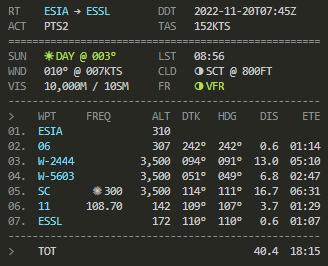
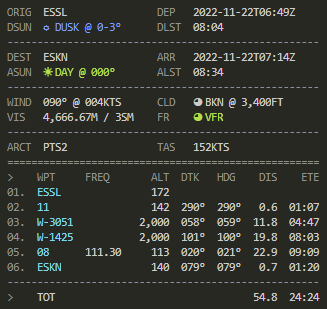
Add total time en route and distance to Mission

Changed region(s): [[0.0, 0.0, 0.9786, 0.9925], [0.8869, 0.3609, 0.9174, 0.391], [0.8869, 0.2707, 0.9174, 0.3008]]

diff --git a/dist/Export/Flightplan.js b/dist/Export/Flightplan.js
@@ -81,29 +81,44 @@ export class Flightplan {
     toString() {
         const m = this.mission;
         const lineLength = 52;
-        const sunState = new LonLatDate(m.origin_lon_lat, m.conditions.time_object).sunState;
-        let output = this.outputFourColumn([
-            'RT',
-            this.clr.lightCyan + m.origin_icao + this.clr.reset + ' → ' + this.clr.lightCyan + m.destination_icao + this.clr.reset,
-            'DDT',
+        const total_distance = m.distance;
+        const total_time_enroute = m.time_enroute;
+        const time = m.conditions.time_object;
+        const sunStateOrigin = new LonLatDate(m.origin_lon_lat, time).sunState;
+        time.setSeconds(time.getSeconds() + total_time_enroute * 3600);
+        const sunStateDestination = new LonLatDate(m.destination_lon_lat, time).sunState;
+        let output = '';
+        // Origin
+        output += this.outputFourColumn([
+            'ORIG',
+            m.origin_icao,
+            'DEP',
             m.conditions.time_object.toISOString().replace(/:\d+\.\d+/, ''),
         ]);
         output += this.outputFourColumn([
-            'ACT',
-            m.aircraft_icao,
-            'TAS',
-            this.padThree(m.cruise_speed) + 'KTS'
+            'DSUN',
+            this.outputSunState(sunStateOrigin),
+            'DLST',
+            sunStateOrigin.localSolarTime
         ]);
-        output += this.outputDashes(lineLength, '=');
+        output += this.outputDashes(lineLength);
+        // Desitination
+        output += this.outputFourColumn([
+            'DEST',
+            m.destination_icao,
+            'ARR',
+            time.toISOString().replace(/:\d+\.\d+/, ''),
+        ]);
+        output += this.outputFourColumn([
+            'ASUN',
+            this.outputSunState(sunStateDestination),
+            'ALST',
+            sunStateDestination.localSolarTime
+        ]);
         // Weather table
+        output += this.outputDashes(lineLength);
         output += this.outputFourColumn([
-            'SUN',
-            this.outputSunState(sunState),
-            'LST',
-            sunState.localSolarTime
-        ]);
-        output += this.outputFourColumn([
-            'WND',
+            'WIND',
             this.getWindColored(m.conditions),
             'CLD',
             m.conditions.cloud_cover_symbol + ' ' + m.conditions.cloud_cover_code + ' @ ' + m.conditions.cloud_base_feet.toLocaleString('en') + 'FT'
@@ -115,14 +130,16 @@ export class Flightplan {
             this.getConditionColored(m.conditions, m.origin_lon_lat)
         ]);
         output += this.outputDashes(lineLength);
+        output += this.outputFourColumn([
+            'ARCT',
+            m.aircraft_icao,
+            'TAS',
+            this.padThree(m.cruise_speed) + 'KTS'
+        ]);
+        output += this.outputDashes(lineLength, '=');
         // Waypoint table
         output += this.clr.lightGray + this.outputLine(['>  ', 'WPT   ', 'FREQ  ', '   ALT', 'DTK ', 'HDG ', ' DIS', '  ETE']) + this.clr.reset;
-        let totalDistance = 0, totalTime = 0;
         m.checkpoints.forEach((c, i) => {
-            totalDistance += c.distance;
-            if (c.time > 0) {
-                totalTime += c.time;
-            }
             let frqString = '';
             if (c.frequency) {
                 frqString = c.frequency_unit === 'M' ? this.pad(c.frequency_mhz, 6, 2) : ('✺ ' + c.frequency_khz.toFixed()).padStart(6);
@@ -136,14 +153,14 @@ export class Flightplan {
                 (c.direction >= 0) ? this.padThree(c.direction_magnetic) + "°" : ' '.repeat(4),
                 (c.heading >= 0) ? this.padThree(c.heading_magnetic) + "°" : ' '.repeat(4),
                 (c.distance >= 0) ? this.pad(c.distance, 4, 1) : ' '.repeat(4),
-                (c.time > 0) ? this.convertHoursToMinutesString(c.time) : ' '.repeat(5),
+                (c.time_enroute > 0) ? this.convertHoursToMinutesString(c.time_enroute) : ' '.repeat(5),
             ]);
         });
         output += this.outputDashes(lineLength);
         output += this.outputLine([
             this.clr.lightGray + '>  ' + this.clr.reset, 'TOT   ', '      ', '      ', '    ', '    ',
-            this.pad(totalDistance, 4, 1),
-            this.convertHoursToMinutesString(totalTime)
+            this.pad(total_distance, 4, 1),
+            this.convertHoursToMinutesString(total_time_enroute)
         ]);
         return output;
     }

diff --git a/src/Export/Flightplan.ts b/src/Export/Flightplan.ts
@@ -87,32 +87,49 @@ export class Flightplan {
   toString(): string {
     const m = this.mission;
     const lineLength = 52;
-    const sunState = new LonLatDate(m.origin_lon_lat, m.conditions.time_object).sunState;
+    const total_distance = m.distance;
+    const total_time_enroute = m.time_enroute;
+    const time = m.conditions.time_object;
+    const sunStateOrigin = new LonLatDate(m.origin_lon_lat, time).sunState;
+    time.setSeconds(time.getSeconds() + total_time_enroute * 3600)
+    const sunStateDestination = new LonLatDate(m.destination_lon_lat, time).sunState;
+    let output = '';
 
-    let output = this.outputFourColumn([
-      'RT', // Flight plan route
-      this.clr.lightCyan + m.origin_icao + this.clr.reset + ' → ' + this.clr.lightCyan + m.destination_icao + this.clr.reset,
-      'DDT', // Departure date & time
+
+    // Origin
+    output += this.outputFourColumn([
+      'ORIG',
+      m.origin_icao,
+      'DEP', // Departure date & time
       m.conditions.time_object.toISOString().replace(/:\d+\.\d+/, ''),
     ]);
     output += this.outputFourColumn([
-      'ACT', // Aircraft type
-      m.aircraft_icao,
-      'TAS', // True Air Speed
-      this.padThree(m.cruise_speed) + 'KTS'
+      'DSUN',
+      this.outputSunState(sunStateOrigin),
+      'DLST', // Local Solar Time
+      sunStateOrigin.localSolarTime
     ]);
-    output += this.outputDashes(lineLength, '=');
+
+    output += this.outputDashes(lineLength);
+
+    // Desitination
+    output += this.outputFourColumn([
+      'DEST',
+      m.destination_icao,
+      'ARR', // Arrival date & time
+      time.toISOString().replace(/:\d+\.\d+/, ''),
+    ]);
+    output += this.outputFourColumn([
+      'ASUN',
+      this.outputSunState(sunStateDestination),
+      'ALST', // Local Solar Time
+      sunStateDestination.localSolarTime
+    ]);
 
     // Weather table
+    output += this.outputDashes(lineLength);
     output += this.outputFourColumn([
-      'SUN',
-      this.outputSunState(sunState),
-      'LST', // Local Solar Time
-      sunState.localSolarTime
-    ]);
-
-    output += this.outputFourColumn([
-      'WND', // Wind
+      'WIND', // Wind
       this.getWindColored(m.conditions),
       'CLD', // Clouds
       m.conditions.cloud_cover_symbol + ' ' + m.conditions.cloud_cover_code + ' @ ' + m.conditions.cloud_base_feet.toLocaleString('en') + 'FT'
@@ -125,13 +142,18 @@ export class Flightplan {
     ]);
     output += this.outputDashes(lineLength);
 
+    output += this.outputFourColumn([
+      'ARCT', // Aircraft type
+      m.aircraft_icao,
+      'TAS', // True Air Speed
+      this.padThree(m.cruise_speed) + 'KTS'
+    ]);
+    output += this.outputDashes(lineLength, '=');
+
     // Waypoint table
     output += this.clr.lightGray + this.outputLine(['>  ', 'WPT   ', 'FREQ  ', '   ALT', 'DTK ', 'HDG ', ' DIS', '  ETE']) + this.clr.reset;
-    let totalDistance = 0, totalTime = 0;
-    m.checkpoints.forEach((c, i) => {
-      totalDistance += c.distance;
-      if (c.time > 0) { totalTime += c.time }
 
+    m.checkpoints.forEach((c, i) => {
       let frqString = '';
       if (c.frequency) {
         frqString = c.frequency_unit === 'M' ? this.pad(c.frequency_mhz, 6, 2) : ('✺ ' + c.frequency_khz.toFixed()).padStart(6)
@@ -145,14 +167,14 @@ export class Flightplan {
         (c.direction >= 0) ? this.padThree(c.direction_magnetic) + "°" : ' '.repeat(4),
         (c.heading >= 0) ? this.padThree(c.heading_magnetic) + "°" : ' '.repeat(4),
         (c.distance >= 0) ? this.pad(c.distance, 4, 1) : ' '.repeat(4),
-        (c.time > 0) ? this.convertHoursToMinutesString(c.time) : ' '.repeat(5),
+        (c.time_enroute > 0) ? this.convertHoursToMinutesString(c.time_enroute) : ' '.repeat(5),
       ]);
     })
     output += this.outputDashes(lineLength);
     output += this.outputLine([
       this.clr.lightGray + '>  ' + this.clr.reset, 'TOT   ', '      ', '      ', '    ', '    ',
-      this.pad(totalDistance, 4, 1),
-      this.convertHoursToMinutesString(totalTime)
+      this.pad(total_distance, 4, 1),
+      this.convertHoursToMinutesString(total_time_enroute)
     ]);
 
     return output;

diff --git a/src/Aerofly/MissionCheckpoint.ts b/src/Aerofly/MissionCheckpoint.ts
@@ -115,7 +115,7 @@ export class MissionCheckpoint {
   /**
    * In hours
    */
-  get time(): number {
+  get time_enroute(): number {
     return this.distance >= 0 && this.ground_speed > 0 ? this.distance / this.ground_speed : 0;
   }
 
@@ -160,8 +160,8 @@ export class MissionCheckpoint {
 
     let altitude_ft = this.altitude_ft;
     if (isVfr) {
-    // Separation above 3000ft MSL
-    if (altitude_ft > 3000 && altitude_ft < 20000 && this.direction && this.type == MissionCheckpoint.TYPE_WAYPOINT) {
+      // Separation above 3000ft MSL
+      if (altitude_ft > 3000 && altitude_ft < 20000 && this.direction && this.type == MissionCheckpoint.TYPE_WAYPOINT) {
         this.altitude_ft = (this.direction < 180)
           ? Math.ceil((altitude_ft - 1500) / 2000) * 2000 + 1500 // 3500, 5500, ..
           : Math.ceil((altitude_ft - 500) / 2000) * 2000 + 500; // 4500, 6500, ..
@@ -182,7 +182,7 @@ export class MissionCheckpoint {
                         <[float64][altitude][${this.altitude}]>
                         <[float64][direction][${this.direction}]>
                         // <[float64][distance][${this.distance.toFixed(2)}]>
-                        // <[float64][time][${this.time.toFixed(2)}]>
+                        // <[float64][time][${this.time_enroute.toFixed(2)}]>
                         <[float64][slope][${this.slope}]>
                         <[float64][length][${this.length}]>
                         <[float64][frequency][${this.frequency.toFixed()}]>

diff --git a/dist/Aerofly/MissionCheckpoint.js b/dist/Aerofly/MissionCheckpoint.js
@@ -95,7 +95,7 @@ export class MissionCheckpoint {
     /**
      * In hours
      */
-    get time() {
+    get time_enroute() {
         return this.distance >= 0 && this.ground_speed > 0 ? this.distance / this.ground_speed : 0;
     }
     get altitude_ft() {
@@ -156,7 +156,7 @@ export class MissionCheckpoint {
                         <[float64][altitude][${this.altitude}]>
                         <[float64][direction][${this.direction}]>
                         // <[float64][distance][${this.distance.toFixed(2)}]>
-                        // <[float64][time][${this.time.toFixed(2)}]>
+                        // <[float64][time][${this.time_enroute.toFixed(2)}]>
                         <[float64][slope][${this.slope}]>
                         <[float64][length][${this.length}]>
                         <[float64][frequency][${this.frequency.toFixed()}]>

diff --git a/dist/Aerofly/Mission.js b/dist/Aerofly/Mission.js
@@ -190,6 +190,26 @@ export class Mission {
     get aircraft_icao() {
         return this._aircraft_icao;
     }
+    /**
+     * In hours
+     */
+    get time_enroute() {
+        let total_time_enroute = 0;
+        this.checkpoints.forEach((c) => {
+            total_time_enroute += c.time_enroute;
+        });
+        return total_time_enroute;
+    }
+    /**
+     * In nautical miles
+     */
+    get distance() {
+        let total_distance = 0;
+        this.checkpoints.forEach((c) => {
+            total_distance += c.distance;
+        });
+        return total_distance;
+    }
     fromMainMcf(mainMcf, ils = 0, magnetic_declination = 0) {
         this.aircraft_name = mainMcf.aircraft.name;
         switch (mainMcf.flight_setting.configuration) {

diff --git a/src/Aerofly/Mission.ts b/src/Aerofly/Mission.ts
@@ -222,6 +222,28 @@ export class Mission {
     return this._aircraft_icao;
   }
 
+  /**
+   * In hours
+   */
+  get time_enroute(): number {
+    let total_time_enroute = 0;
+    this.checkpoints.forEach((c) => {
+      total_time_enroute += c.time_enroute;
+    });
+    return total_time_enroute;
+  }
+
+  /**
+   * In nautical miles
+   */
+  get distance(): number {
+    let total_distance = 0;
+    this.checkpoints.forEach((c) => {
+      total_distance += c.distance;
+    });
+    return total_distance;
+  }
+
   fromMainMcf(mainMcf: MainMcf, ils: number = 0, magnetic_declination: number = 0): Mission {
     this.aircraft_name = mainMcf.aircraft.name;
 
